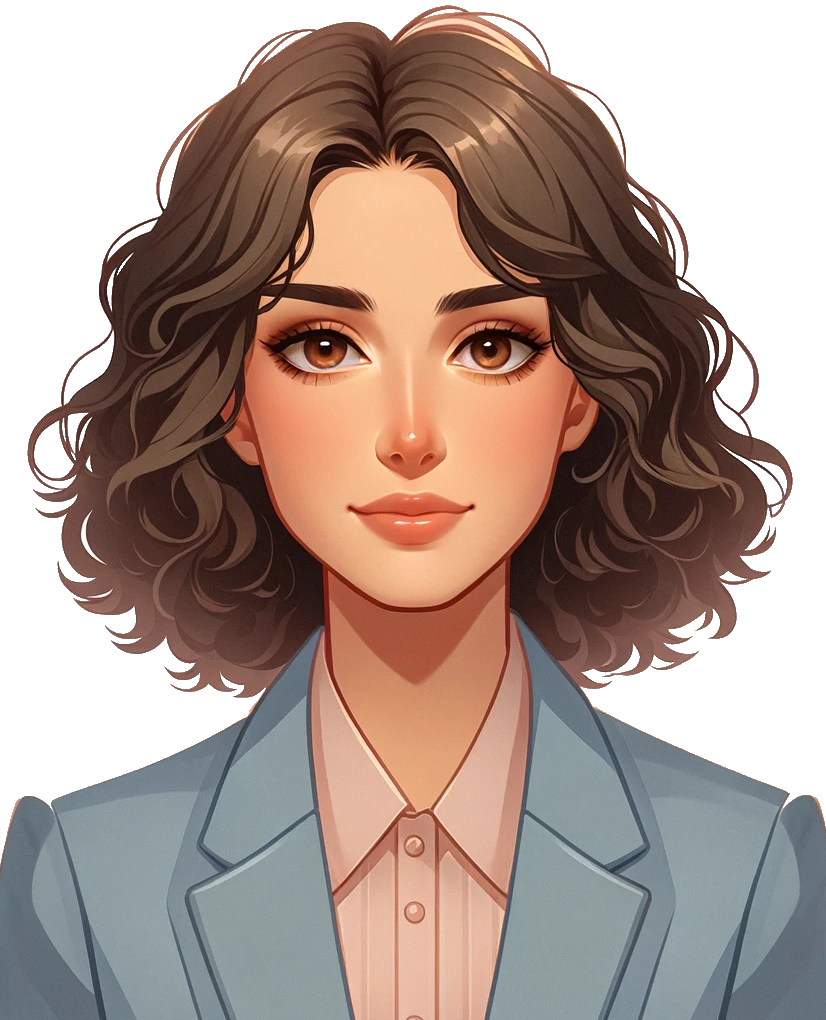
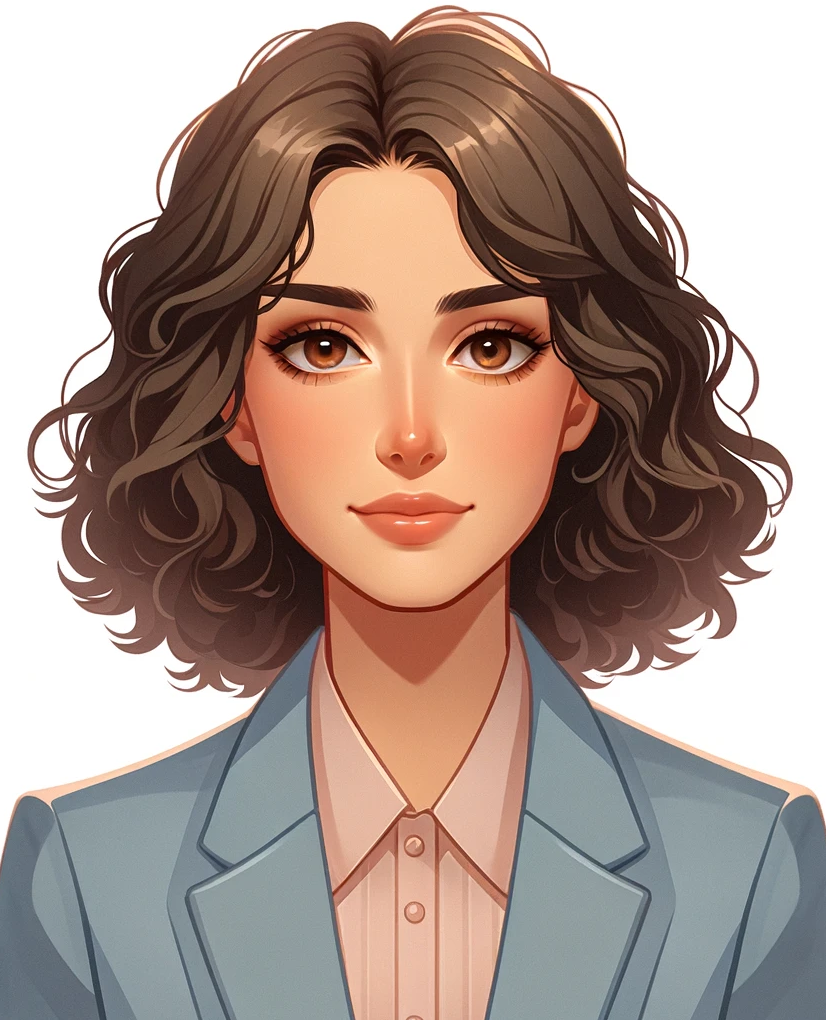
minor changes

diff --git a/app.py b/app.py
@@ -13,6 +13,8 @@ from langchain.vectorstores import FAISS
 from langchain.text_splitter import CharacterTextSplitter
 from langchain.llms import OpenAI
 from langchain.chains.question_answering import load_qa_chain
+
+st.set_page_config(layout="wide")
 # Adding the current date and time at the top of the chatlog
 def append_date_time_to_chatlog():
     with open(Chatlog_loc, "r+") as chatlog_file:
@@ -80,7 +82,7 @@ Chatlog_loc = os.path.join('Memories', 'chatlog.txt')
 Journal_loc = os.path.join('Memories', 'Journal.txt')
 Persona=os.path.join('Personas', 'Zara.md')
 userprofile=os.path.join('Memories', 'user_profile.txt')
-portrait_path = os.path.join('Portrait', 'Zara.png')
+portrait_path = os.path.join('Portrait', 'T.png')
 Thinker_loc = os.path.join('system prompts', 'Thinker.md')
 prompt = st.chat_input()
 Profile_update = open_file(Update_user)
@@ -110,7 +112,7 @@ if "Journal" not in st.session_state:
             open(Journal_loc, "w").close()
         
         with open(Journal_loc, "a") as Journal_file:  # Changed mode to "a" for appending to the end
-            Journal_file.write(Update_Journal + "\n\n\n")
+            Journal_file.write("\n\n" + Update_Journal + "\n\n\n")
 
         with open(Chatlog_loc, "w", encoding='utf-8') as chat_log_file:
             chat_log_file.write("")
@@ -145,11 +147,11 @@ if "timestamp" not in st.session_state:
     append_date_time_to_chatlog()
     st.session_state['timestamp'] = 'done'
 
-if st.sidebar.button("Clear History"):
-    # Reset the messages list and chat_log string
-    st.session_state['messages'] = []
-    st.session_state["chat_log"] = ""
-    st.rerun()  # Rerun the app to reflect changes
+# if st.sidebar.button("Clear History"):
+#     # Reset the messages list and chat_log string
+#     st.session_state['messages'] = []
+#     st.session_state["chat_log"] = ""
+#     st.rerun()  # Rerun the app to reflect changes
 # Initialize or ensure the 'messages' list is in the session state for storing chat messages.
 if 'messages' not in st.session_state:
     st.session_state['messages'] = []
@@ -164,6 +166,10 @@ for msg in st.session_state.messages:
         # For user messages, display as usual
         with st.chat_message(msg["role"]):
             st.write(msg["content"])
+
+#============================CHATBOT FUNCTION =====================================#
+
+
 if prompt:
     with open('Journal_embedded.pkl', 'rb') as f:
         loaded_KB = pickle.load(f)
@@ -182,7 +188,7 @@ if prompt:
         "content": Content  + memory
     }
     messages_for_api = [system_prompt] + st.session_state.messages
-    
+     
     # Call the OpenAI API with the prepared messages, including the hidden system prompt.
     response = openai.ChatCompletion.create(
         model="gpt-4-turbo-preview",

diff --git a/system prompts/Journaler.md b/system prompts/Journaler.md
@@ -1,5 +1,9 @@
 # MISSION
-As a therapy notes creator, your task is to create therapy notes based on conversation logs. 
+As a therapy notes creator, your task is to create therapy notes based on conversation logs. If there is no conversation log do not respond.
+
+# RULES
+
+If there is no conversation log and only a time and date give an space as output
 
 # Instructions for Creating Therapy Notes
 - Review conversation transcripts after the session and highlight key moments.
@@ -14,6 +18,7 @@ As a therapy notes creator, your task is to create therapy notes based on conver
 - Write clearly and concisely, focusing on relevant details that contribute to understanding the patient's therapeutic journey.
 - Reflect on the session, considering what worked well and what could be improved.
 - Anticipate potential areas for further exploration, possible challenges, or adjustments in therapeutic techniques based on the session's insights.
+- If there is no conversation log do not respond.
 
 # OUTPUT FORMAT
 Observe the following Journal entry format:
